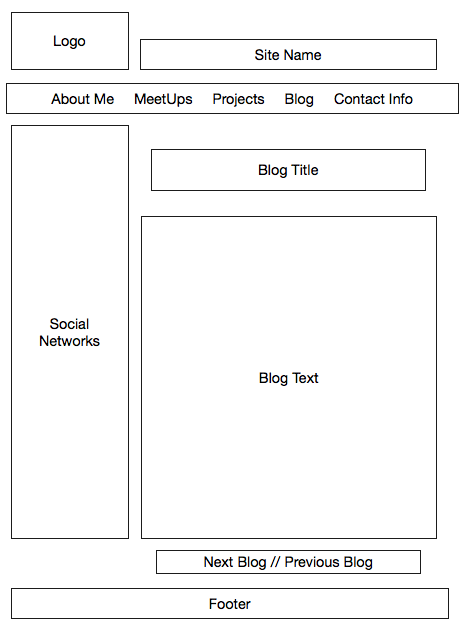
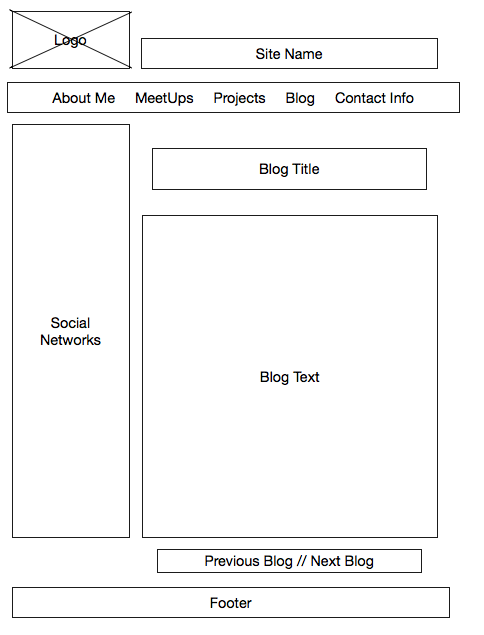
Edit blog 2.7

diff --git a/blog/blog-template.html b/blog/blog-template.html
@@ -30,18 +30,21 @@
         <li><em>How was it to wireframe and create an HTML page with a pair?</em></li>
           <p>This was a great experience for me. I enjoyed discussing our ideas and learning about new elements and approaches to wireframing. It was fun to talk with someone through it and get ideas for other topics to include on my website, such as adding MeetUps I've attended and I am thinking about adding a Travel page to share the impact a few trips I have taken that had on my formation. My pair was a little more experienced with HTML so he was able to drive us more efficiently through the challenge. We still stopped to look up a few things as it was tricky to figure out a way to include the sidebar for Social Networks. We ended up making a table with two columns. I would still like to figure out a better way as I think those are two separate components of the page.</p>
         <li><em>Did you find wireframing to be helpful to your development process?</em></li>
-          <p>It definitely helps to have a visual picture of the end goal to guide the coding of the HTML page. We could have done without it but I think it would have taken longer and, especially for the sake of collaboration, it would have been hard to know if we had the same end goal in mind as we decided to work on simlar layouts.</p>
+          <p>It definitely helps to have a visual picture of the end goal to guide the coding of the HTML page. We could have done without it but I think it would have taken longer and, especially for the sake of collaboration, it would have been hard to know if we had the same end goal in mind as we decided to work on similar layouts.</p>
         <li><em>What did you and your pair decide made a good wireframe?</em></li>
-          <p>A good wireframe shows the layout of where content will be on a webpage. Elements such as images (as in the logo) should be represented with an X through them. The different headline sizes denote hierarchy of importance. In retrospect, I think we maybe should have been a little more detailed on some parts of our wireframe, such as including blue underlined text in the Social Networks sidebar to show that there will be links and to put placeholder text in the Blog Text frame.</p>
+          <p>A good wireframe shows the layout of where content will be on a webpage. We used OmniGraffle to make our wireframe. It was easy. I probably will try a different wireframing tool next time just to try something new. The different headline sizes denote hierarchy of importance. In retrospect, I think we maybe should have been a little more detailed on some parts of our wireframe, such as including blue underlined text in the Social Networks sidebar to show that there will be links and to put placeholder text in the Blog Text frame. Elements such as images (as in the logo) should be represented with an X through them.</p>
         <li><em>What new semantic elements did you learn about (if any)?</em></li>
-          <p> - meta charset -"utf-8" is important for specifying the character encoding for the document</p>
+          <p> - meta charset - "utf-8" is important for specifying the character encoding for the document</p>
           <p> - table style ="width:100%" sets the table to stretch across the whole page</p>
-          <p> - em tags will italicize the text</p>
-          <p> - to make a copywrite symbol, use the entity <em>"& copy ;"</em> (with no space inbetween the charcters)
+          <p> - "em" tags will italicize the text</p>
+          <p> - to make a copyright symbol, use the entity <em>"& copy ;"</em> (with no space in between the characters)
         </ul>
-        <center><img src="imgs/wireframe-blog.png"/></center>
+
 </tr>
 </table>
+
+  <center><img src="imgs/wireframe-blog.png"></center>
+
 
     <footer><center><h4>Katie Meyer Website &copy;2015</h4></center></footer>
   </body>
